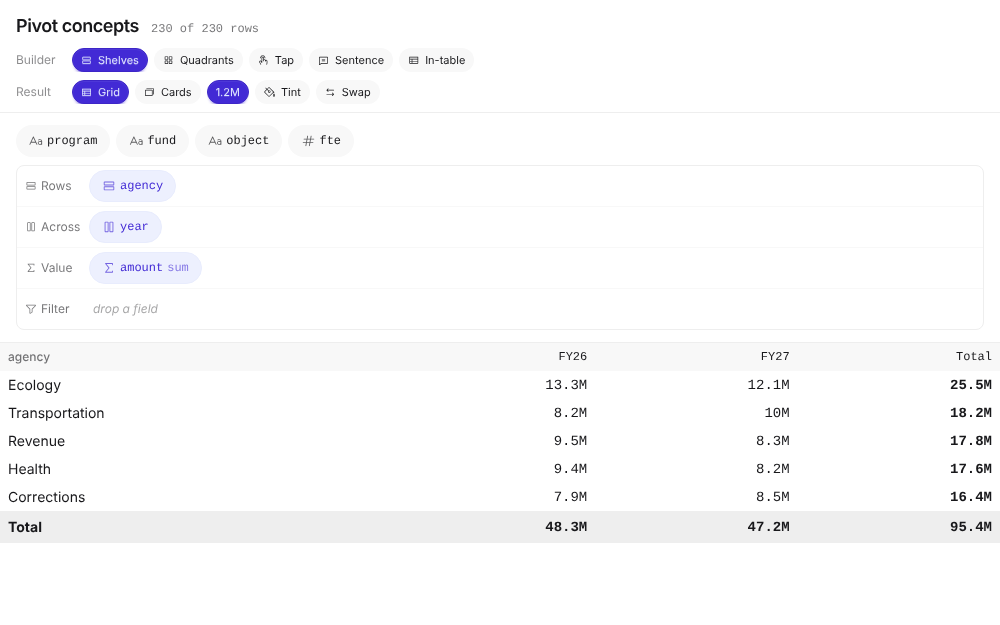
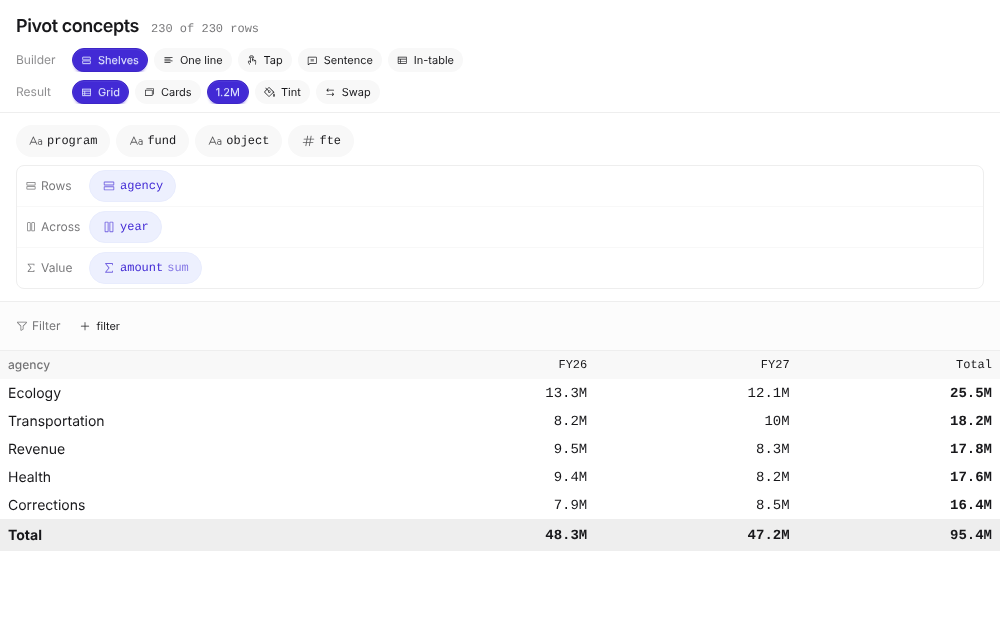
Pivot concepts: filters in a strip over the table, One line, drag at once
The filters leave the shelves and the sentence for a strip of their own
over the table, the same in every builder, with its own + filter; a
filter pill shows how many of its values are kept once any are left out.
Quadrants becomes One line: Rows, Across and Value as three capsules on
one wrapping line under the tray. Pills are touch-none and drag as soon
as they move 5px, by mouse or finger, with no hold; a press that does not
move is a tap, and a swipe that starts off the pills still scrolls.

Claude-Session: https://claude.ai/code/session_01Ez3JXRTC1DuLsbFiz3iDnu

diff --git a/pages/pivot-concepts.html b/pages/pivot-concepts.html
@@ -8,9 +8,10 @@
      rows, which run across, which is the value and which filter, each live on
      the shared engine (lib/kits/table-stats.js, TableStats.pivot) over the same
      sample, and one result view whose layout is chosen separately, so a
-     builder and a result shape can be compared in any pairing. Menus are the
-     estate's own (lib/kits/row-menu.js). Pills drag with a mouse at once and
-     with a finger after a short hold; a tap is never a drag. -->
+     builder and a result shape can be compared in any pairing. The filters
+     sit in their own strip over the table in every builder. Menus are the
+     estate's own (lib/kits/row-menu.js). A pill drags as soon as it moves,
+     by mouse or finger; a tap that does not move opens its menu. -->
 <link href="https://cdn.jsdelivr.net/combine/npm/daisyui@5/themes.css,npm/daisyui@5" rel="stylesheet"/>
 <script src="https://cdn.jsdelivr.net/combine/npm/@tailwindcss/browser@4,npm/@phosphor-icons/web"></script>
 <script src="../lib/vanilla-bundle.js"></script>
@@ -18,7 +19,7 @@
 <script src="../lib/kits/row-menu.js"></script>
 </head>
 <body class="bg-base-100 text-base-content">
-<div class="h-dvh grid grid-rows-[auto_auto_minmax(0,1fr)] grid-cols-[minmax(0,1fr)]">
+<div class="h-dvh grid grid-rows-[auto_auto_auto_minmax(0,1fr)] grid-cols-[minmax(0,1fr)]">
 
   <header class="border-b border-base-300 px-4 pt-3 pb-2 flex flex-col gap-2">
     <div class="flex items-baseline gap-3">
@@ -36,6 +37,9 @@
   </header>
 
   <section id="builder" class="border-b border-base-300 px-4 py-3 select-none"></section>
+
+  <!-- The filters, over the table they narrow, whichever builder is up. -->
+  <section id="filters" class="border-b border-base-300 px-4 py-1.5 select-none bg-base-200/40" data-zone="filters"></section>
 
   <main id="result" class="min-h-0 overflow-auto"></main>
 </div>
@@ -76,6 +80,7 @@
   }
   const SCAN = P.scan(ROWS);
   const FIELDS = SCAN.cols;
+  const VALUES = Object.fromEntries(FIELDS.map(f => [f, [...new Set(ROWS.map(r => String(r[f] ?? '')))].sort()]));
 
   // ── state ───────────────────────────────────────────────────────────────────
   const st = {
@@ -143,9 +148,11 @@
   function pill(field, from, { role = from, cls = '', label } = {}) {
     const placed = role && role !== 'tray';
     const icon = placed ? ICON[role] : (SCAN.isNum[field] ? 'ph-hash' : 'ph-text-aa');
-    const extra = role === 'value' && st.value === field ? ` <span class="opacity-60 font-normal">${esc(st.agg)}</span>` : '';
+    const ex = st.excluded[field]?.size;
+    const extra = role === 'value' && st.value === field ? ` <span class="opacity-60 font-normal">${esc(st.agg)}</span>`
+      : role === 'filters' && ex ? ` <span class="opacity-60 font-normal">${VALUES[field].length - ex} of ${VALUES[field].length}</span>` : '';
     return `<button type="button" data-pill data-field="${esc(field)}" data-from="${from}"
-      class="btn btn-sm rounded-full gap-1 font-mono font-normal touch-manipulation [-webkit-touch-callout:none] ${placed ? 'btn-primary btn-soft' : 'btn-ghost bg-base-200'} ${cls}">
+      class="btn btn-sm rounded-full gap-1 font-mono font-normal touch-none [-webkit-touch-callout:none] ${placed ? 'btn-primary btn-soft' : 'btn-ghost bg-base-200'} ${cls}">
       <i class="ph ${icon} text-sm opacity-70"></i>${esc(label ?? field)}${extra}</button>`;
   }
   const empty = (zone, text) => `<span class="text-xs text-base-content/40 italic px-1" data-empty="${zone}">${text}</span>`;
@@ -167,17 +174,18 @@
       html: () => `<div class="flex flex-col gap-2">
         <div class="flex flex-wrap gap-1.5" data-zone="tray">${FIELDS.filter(f => !roleOf(f)).map(f => pill(f, 'tray')).join('') || empty('tray', 'every field is placed')}</div>
         <div class="rounded-box border border-base-300 overflow-hidden">
-          ${['rows', 'cols', 'value', 'filters'].map(shelfLine).join('')}
+          ${['rows', 'cols', 'value'].map(shelfLine).join('')}
         </div></div>`,
     },
-    quadrants: {
-      label: 'Quadrants', icon: 'ph-squares-four',
+    line: {
+      label: 'One line', icon: 'ph-text-align-left',
+      // The three roles as labelled groups on one wrapping line: as many rows
+      // as the pills need, rather than one per role.
       html: () => `<div class="flex flex-col gap-2">
         <div class="flex flex-wrap gap-1.5" data-zone="tray">${FIELDS.filter(f => !roleOf(f)).map(f => pill(f, 'tray')).join('') || empty('tray', 'every field is placed')}</div>
-        <div class="grid grid-cols-2 gap-1.5">
-          ${['filters', 'cols', 'rows', 'value'].map(z => `<div class="rounded-box border border-base-300 p-1.5 min-h-20 flex flex-col gap-1" data-zone="${z}">
-            <span class="text-xs text-base-content/60 flex items-center gap-1"><i class="ph ${ICON[z]}"></i>${ROLE[z]}</span>
-            <div class="flex flex-wrap gap-1">${list(z).length ? list(z).map(f => pill(f, z)).join('') : empty(z, 'drop here')}</div></div>`).join('')}
+        <div class="flex flex-wrap items-center gap-1.5">
+          ${['rows', 'cols', 'value'].map(z => `<div class="inline-flex flex-wrap items-center gap-1 min-h-10 rounded-full bg-base-200/60 p-1" data-zone="${z}">
+            ${list(z).length ? list(z).map(f => pill(f, z)).join('') : `<span class="px-2 text-xs text-base-content/50 flex items-center gap-1"><i class="ph ${ICON[z]}"></i>${ROLE[z]}</span>`}</div>`).join('')}
         </div></div>`,
     },
     tap: {
@@ -196,7 +204,7 @@
         const add = (zone, word) => ` <button type="button" class="btn btn-xs rounded-full btn-ghost bg-base-200 font-normal align-middle" data-slot="${zone}" data-index="-1"><i class="ph ph-plus"></i>${word}</button>`;
         const by = st.rows.map((f, i) => (i ? ' then ' : ' by ') + slot('rows', f, i)).join('') + (st.rows.length < 4 ? add('rows', st.rows.length ? 'then' : 'by') : '');
         const across = st.cols.length ? ' across ' + st.cols.map((f, i) => slot('cols', f, i)).join(' and ') : add('cols', 'across');
-        const where = st.filters.map((f, i) => (i ? ', ' : ' where ') + slot('filters', f, i)).join('') + add('filters', 'filter');
+        const where = '';
         const what = st.value
           ? `<button type="button" class="link link-primary decoration-dotted font-semibold" data-slot="agg">${esc(st.agg === 'avg' ? 'average' : st.agg)}</button> of ${slot('value', st.value, 0)}`
           : `<button type="button" class="link link-primary decoration-dotted font-semibold" data-slot="value" data-index="0">count of rows</button>`;
@@ -207,7 +215,7 @@
       label: 'In-table', icon: 'ph-table',
       // No builder of its own: the tray, and the result's header as the drop
       // targets (see grid()).
-      html: () => `<div class="flex gap-1.5 overflow-x-auto" data-zone="tray">${FIELDS.filter(f => !roleOf(f)).map(f => pill(f, 'tray', { cls: 'shrink-0' })).join('') || empty('tray', 'every field is placed')}</div>`,
+      html: () => `<div class="flex flex-wrap gap-1.5" data-zone="tray">${FIELDS.filter(f => !roleOf(f)).map(f => pill(f, 'tray')).join('') || empty('tray', 'every field is placed')}</div>`,
     },
   };
 
@@ -280,6 +288,10 @@
       chip(false, 'data-swap', '<i class="ph ph-arrows-left-right"></i>Swap'),
     ].join('');
     $('builder').innerHTML = BUILDERS[st.concept].html();
+    $('filters').innerHTML = `<div class="flex flex-wrap items-center gap-1.5 min-h-9">
+      <span class="text-xs text-base-content/60 flex items-center gap-1 pr-1"><i class="ph ph-funnel"></i>Filter</span>
+      ${st.filters.map(f => pill(f, 'filters', { cls: 'btn-xs' })).join('')}
+      <button type="button" class="btn btn-xs rounded-full btn-ghost font-normal" data-addfilter><i class="ph ph-plus"></i>filter</button></div>`;
     const out = compute();
     $('figure').textContent = `${out.n.toLocaleString()} of ${ROWS.length.toLocaleString()} rows` + (out.res.skipped ? ` · ${out.res.skipped} skipped, no ${st.value}` : '');
     $('result').innerHTML = st.layout === 'cards' && st.concept !== 'table' ? cards(out) : grid(out, st.concept === 'table');
@@ -299,7 +311,7 @@
       for (const a of ['sum', 'avg', 'min', 'max', 'count']) if (a !== st.agg) items.push({ icon: 'ph-function', label: a === 'avg' ? 'average' : a, run: () => { st.agg = a; render(); } });
     }
     if (from === 'filters') {
-      const vals = [...new Set(ROWS.map(r => String(r[field] ?? '')))].sort().slice(0, 40);
+      const vals = VALUES[field].slice(0, 40);
       const ex = st.excluded[field] ||= new Set();
       items.push({ heading: 'Show' });
       for (const v of vals) items.push({ icon: ex.has(v) ? 'ph-square' : 'ph-check-square', label: v || '(blank)', run: () => { ex.has(v) ? ex.delete(v) : ex.add(v); render(); fieldMenu(document.querySelector(`[data-pill][data-from="filters"][data-field="${CSS.escape(field)}"]`) || el, field, from); } });
@@ -327,36 +339,32 @@
     next ? place(f, next) : remove(f);
   };
 
-  // ── the drag ────────────────────────────────────────────────────────────────
-  // A mouse drags once it moves 4px. A finger drags after a 300ms hold, so a
-  // swipe still scrolls and a tap is still a tap; once held, the page stops
-  // scrolling under the finger (touchmove prevented while dragging).
-  const HOLD = 300;
+  // ── the drag ────────────────────────────────────────────────────────────
+  // A pill drags as soon as it moves 5px, by mouse or by finger: pills are
+  // touch-none, so a finger on one is the pill's, and a swipe that starts off
+  // the pills still scrolls. A press that does not move is a tap.
   let press = null, drag = null, suppress = false;
   document.addEventListener('pointerdown', (e) => {
     const p = e.target.closest('[data-pill]');
     if (!p || e.button > 0) return;
-    press = { p, x: e.clientX, y: e.clientY, id: e.pointerId, touch: e.pointerType !== 'mouse' };
-    if (press.touch) press.timer = setTimeout(() => begin(press.x, press.y), HOLD);
+    press = { p, x: e.clientX, y: e.clientY, id: e.pointerId };
   });
   document.addEventListener('pointermove', (e) => {
     if (!press || e.pointerId !== press.id) return;
-    const moved = Math.hypot(e.clientX - press.x, e.clientY - press.y);
     if (!drag) {
-      if (press.touch) { if (moved > 8) { clearTimeout(press.timer); press = null; } return; }
-      if (moved > 4) begin(e.clientX, e.clientY); else return;
+      if (Math.hypot(e.clientX - press.x, e.clientY - press.y) < 5) return;
+      begin(e.clientX, e.clientY);
     }
     follow(e.clientX, e.clientY);
   });
   document.addEventListener('touchmove', (e) => { if (drag) e.preventDefault(); }, { passive: false });
   const end = (e) => {
     if (!press || (e && e.pointerId !== press.id)) return;
-    clearTimeout(press.timer);
     if (drag) { drop(); suppress = true; setTimeout(() => { suppress = false; }, 350); }
     press = null;
   };
   document.addEventListener('pointerup', end);
-  document.addEventListener('pointercancel', () => { if (press) clearTimeout(press.timer); if (drag) cancelDrag(); press = null; });
+  document.addEventListener('pointercancel', () => { if (drag) cancelDrag(); press = null; });
 
   function begin(x, y) {
     const { p } = press;
@@ -420,6 +428,8 @@
     if (t.closest('[data-swap]')) { [st.rows, st.cols] = [st.cols, st.rows]; st.collapsed.clear(); return render(); }
     const f = t.closest('[data-fold]'); if (f) { const id = f.dataset.fold; st.collapsed.has(id) ? st.collapsed.delete(id) : st.collapsed.add(id); return render(); }
     const s = t.closest('[data-slot]'); if (s) return slotMenu(s);
+    const af = t.closest('[data-addfilter]');
+    if (af) return window.rowMenu.open({ ...at(af), items: [{ heading: 'Filter by' }, ...FIELDS.filter(f => !st.filters.includes(f)).map(f => ({ icon: SCAN.isNum[f] ? 'ph-hash' : 'ph-text-aa', label: f, run: () => place(f, 'filters') }))] });
     const p = t.closest('[data-pill]');
     if (p) {
       if (p.closest('[data-cycle]')) return cycle(p.dataset.field);
